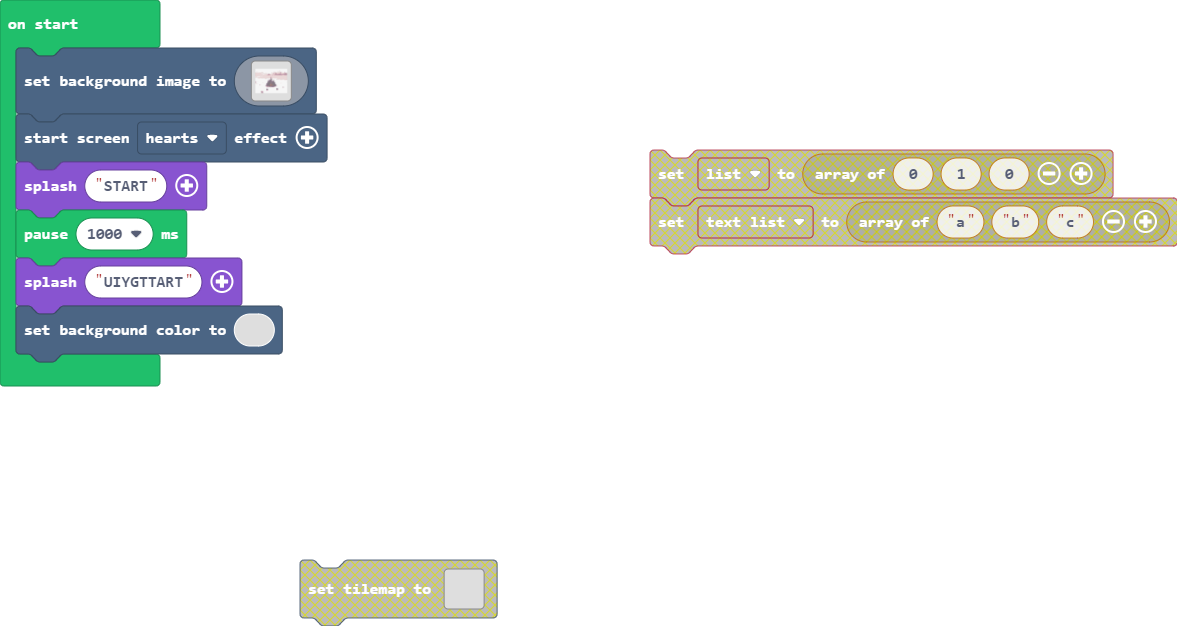
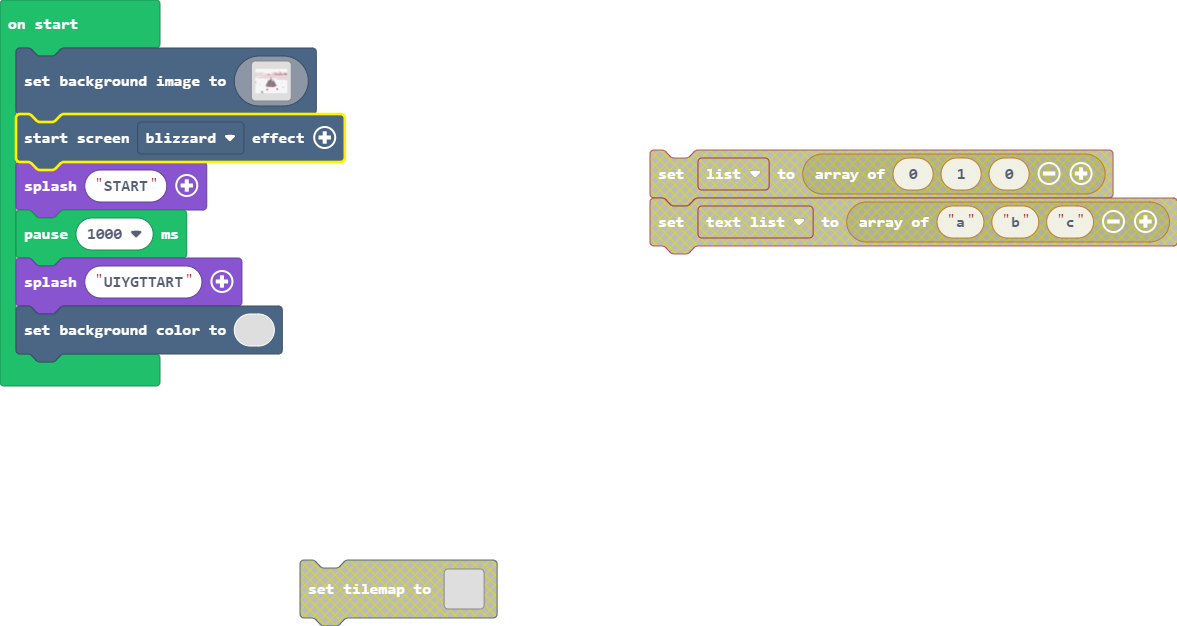
Update main.blocks, main.ts

Changed region(s): [[0.0, 0.1518, 0.3059, 0.2732]]

diff --git a/main.ts b/main.ts
@@ -120,7 +120,7 @@ scene.setBackgroundImage(img`
[2 lines of base64/hex data omitted]
     `)
-effects.hearts.startScreenEffect()
+effects.blizzard.startScreenEffect()
 game.splash("START")
 pause(1000)
 game.splash("UIYGTTART")
